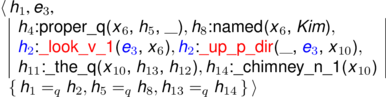
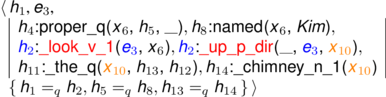
git-svn-id: http://svn.delph-in.net/erg/tags/1214@26005 3df82f5b-d43a-0410-af33-fce91db48ec5

Changed region(s): [[0.8394, 0.433, 0.9326, 0.5876], [0.2487, 0.6495, 0.342, 0.7732], [0.9016, 0.6495, 0.9637, 0.7732]]

diff --git a/www/esd/essence/kim-looked-up-the-answer.tex b/www/esd/essence/kim-looked-up-the-answer.tex
@@ -28,13 +28,13 @@
   \sep{\sh{2}}{\spred{\color{red}\_look\_v\_up\slnkc{4}{10}}}{%
     \srole{ARG0}{\svar{e}{3}{\svp{SF}{prop}, \svp{TENSE}{past}, \svp{MOOD}{indicative}, \svp{PROG}{-}, \svp{PERF}{-}}},
     \srole{ARG1}{\svar{x}{6}{}},
-    \srole{ARG2}{\svar{x}{9}{\svp{PERS}{3}, \svp{NUM}{sg}, \svp{IND}{+}}}},\\
+    \srole{ARG2}{\color{orange}\svar{x}{9}{\svp{PERS}{3}, \svp{NUM}{sg}, \svp{IND}{+}}}},\\
   \sep{\sh{10}}{\spred{\_the\_q\slnkc{14}{17}}}{%
-    \srole{ARG0}{\svar{x}{9}{}},
+    \srole{ARG0}{\color{orange}\svar{x}{9}{}},
     \srole{RSTR}{\svar{h}{12}{}},
     \srole{BODY}{}}, %\\
   \sep{\sh{13}}{\spred{\_answer\_n\_to\slnkc{18}{25}}}{%
-    \srole{ARG0}{\svar{x}{9}{}},
+    \srole{ARG0}{\color{orange}\svar{x}{9}{}},
     \srole{ARG1}{}}}
   {\sqeq{1}{2}, \sqeq{5}{8}, \sqeq{12}{13}}
 

diff --git a/www/esd/essence/kim-looked-up-the-chimney.tex b/www/esd/essence/kim-looked-up-the-chimney.tex
@@ -30,13 +30,13 @@
   \sep{{\color{blue}\sh{2}}}{\color{red}\spred{\_up\_p\_dir\slnkc{11}{13}}}{%
     \srole{ARG0}{},
     \srole{ARG1}{\color{blue}\svar{e}{3}{}},
-    \srole{ARG2}{\svar{x}{10}{\svp{PERS}{3}, \svp{NUM}{sg}}}},\\
+    \srole{ARG2}{\color{orange}\svar{x}{10}{\svp{PERS}{3}, \svp{NUM}{sg}}}},\\
   \sep{\sh{11}}{\spred{\_the\_q\slnkc{14}{17}}}{%
-    \srole{ARG0}{\svar{x}{10}{}},
+    \srole{ARG0}{\color{orange}\svar{x}{10}{}},
     \srole{RSTR}{\svar{h}{13}{}},
     \srole{BODY}{\svar{h}{12}{}}}, %\\
   \sep{\sh{14}}{\spred{\_chimney\_n\_1\slnkc{18}{27}}}{%
-    \srole{ARG0}{\svar{x}{10}{}}}}
+    \srole{ARG0}{\color{orange}\svar{x}{10}{}}}}
   {\sqeq{1}{2}, \sqeq{5}{8}, \sqeq{13}{14}}
 
 \end{document}
